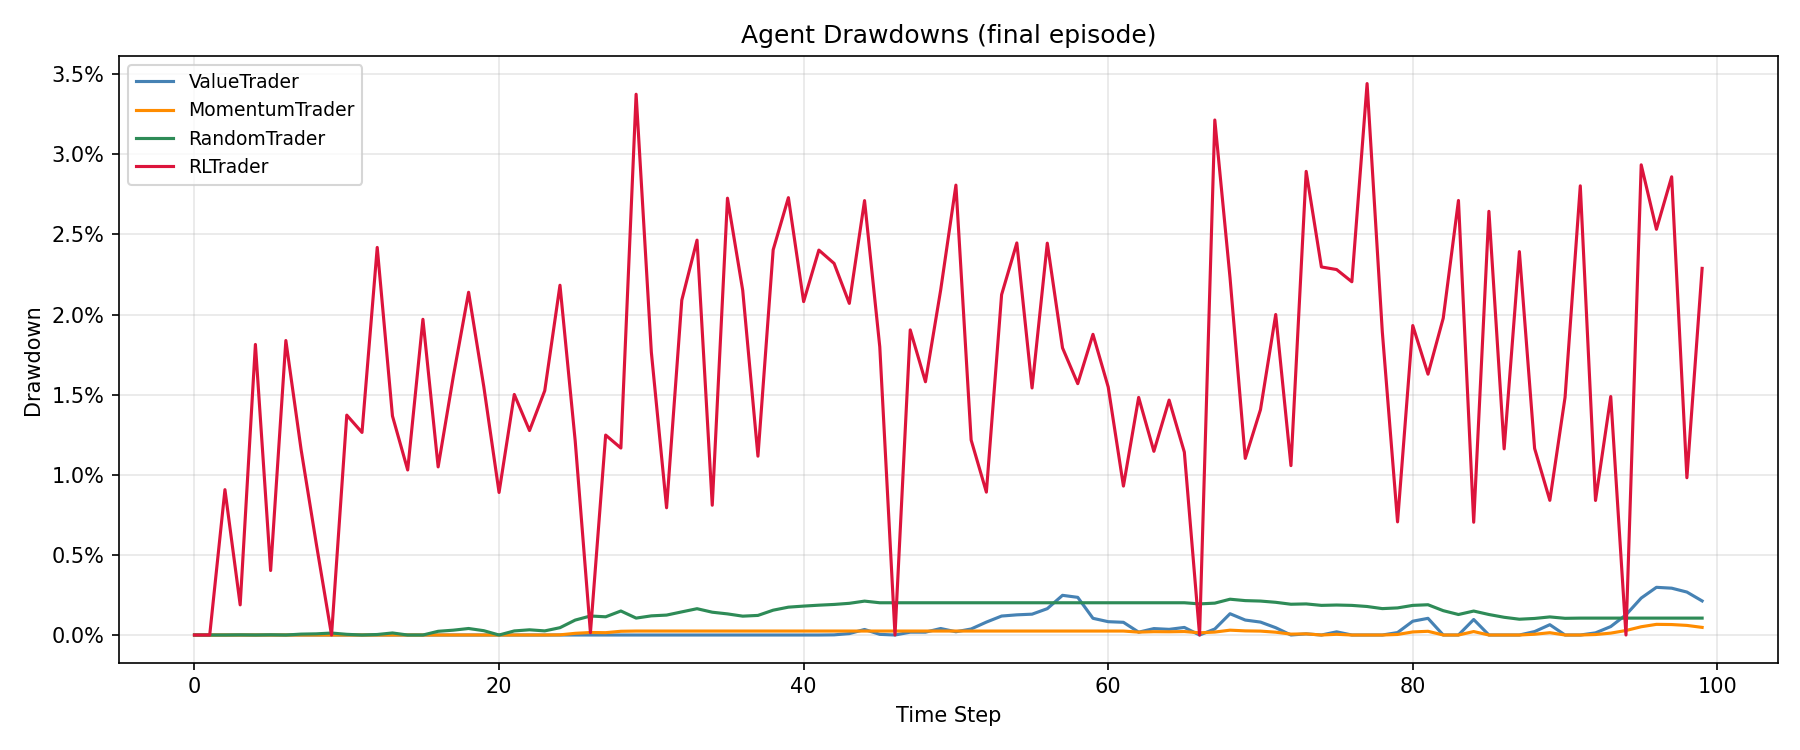
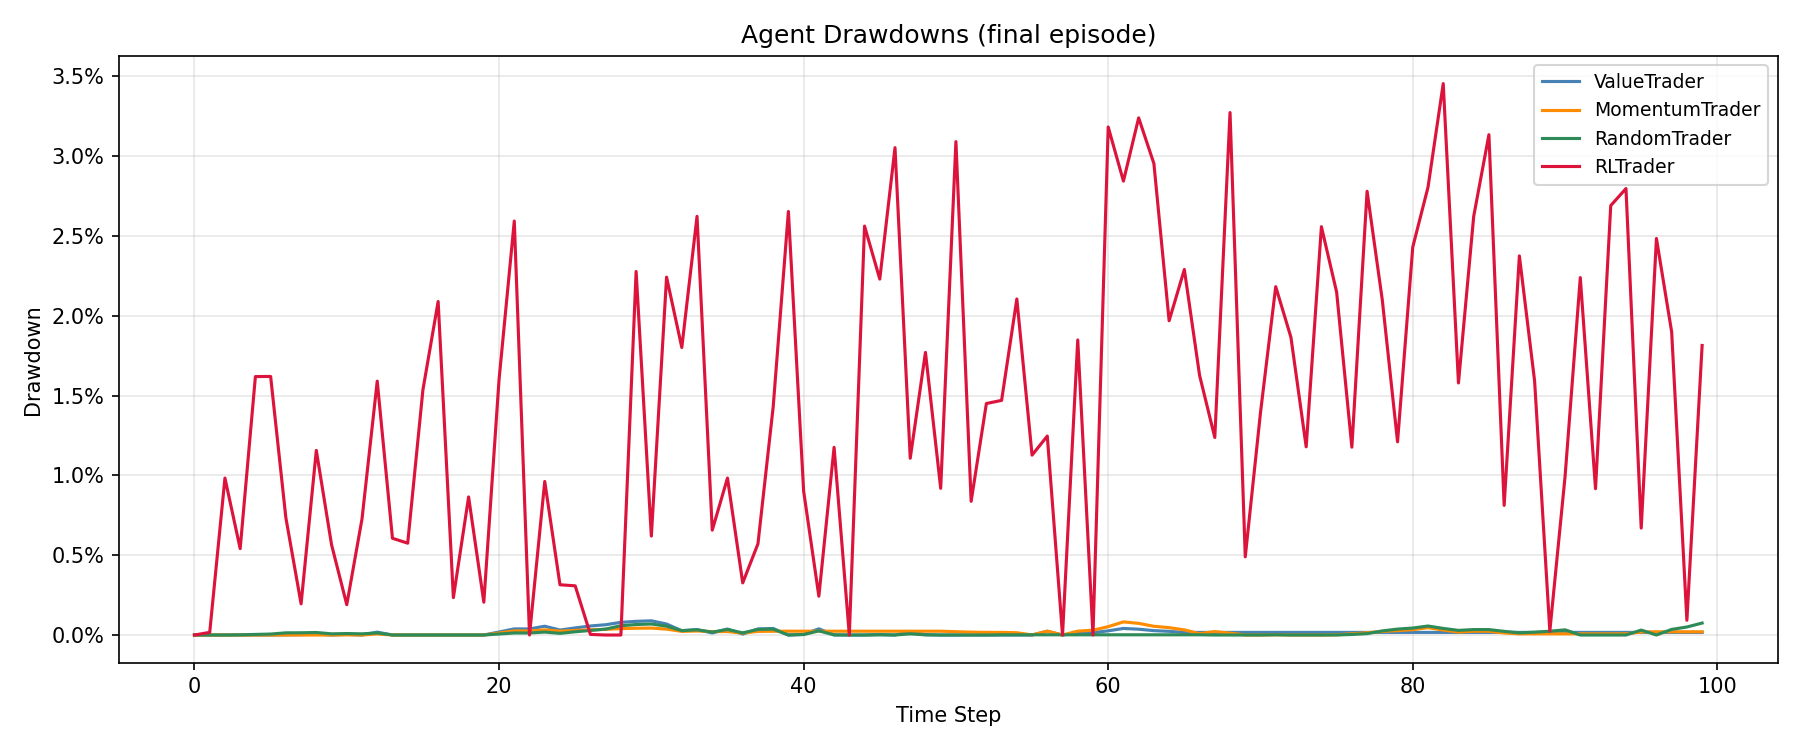
Add a multi-asset rotation engine to identify and reward leading assets
Implement a new multi-asset rotation engine that calculates relative strength scores for individual assets, influencing dynamic caps, reward shaping, and providing transition-based feedback messages.

Replit-Commit-Author: Agent
Replit-Commit-Session-Id: 3826bf3c-e3fd-4317-b321-61e418fea702
Replit-Commit-Checkpoint-Type: full_checkpoint
Replit-Commit-Event-Id: e135a571-7142-46cd-ab74-2d3e7d83e081
Replit-Helium-Checkpoint-Created: true

diff --git a/project/simulation/simulation.py b/project/simulation/simulation.py
@@ -169,6 +169,11 @@ class Simulation:
         self.top_risk      = 0
         self.prev_top_risk = 0
 
+        # --- Multi-asset rotation engine ----------------------------------
+        # rotation_score[asset] ∈ [0, ~4.5] — higher = current leader
+        self.rotation_score      = {}   # asset → score this step
+        self.prev_rotation_score = {}   # asset → score last step (for feedback)
+
         # --- Macro feedback message log -----------------------------------
         # Populated each step when manual flag conflicts with signals,
         # or when AUTO mode detects uncertain / mixed conditions.
@@ -533,6 +538,60 @@ class Simulation:
             state.macro_regime     = self.macro_regime
             state.internal_regime  = self.internal_regime
 
+            # --- Multi-asset rotation engine ------------------------------
+            # Derives relative strength for SOL, XRP, LINK, ETH vs BTC/ETH
+            # anchors using existing price buffers — no new data sources.
+            _rot_assets = ["SOL", "XRP", "LINK", "ETH"]
+            _btc_prices = self.asset_prices["BTC"]
+            _eth_prices = self.asset_prices["ETH"]
+
+            self.rotation_score = {}
+
+            for _ra in _rot_assets:
+                _rap = self.asset_prices[_ra]
+                _rap_n = len(_rap)
+
+                # Short-term momentum (5-step percentage return)
+                _rm5_a   = (_rap[-1] - _rap[-5])   / max(_rap[-5],   1e-6) if _rap_n >= 5  else 0.0
+                _rm5_btc = (_btc_prices[-1] - _btc_prices[-5]) / max(_btc_prices[-5], 1e-6) \
+                           if len(_btc_prices) >= 5 else 0.0
+
+                # Medium-term momentum (20-step percentage return)
+                _rm20_a   = (_rap[-1] - _rap[-20])  / max(_rap[-20],  1e-6) if _rap_n >= 20 else 0.0
+                _rm20_btc = (_btc_prices[-1] - _btc_prices[-20]) / max(_btc_prices[-20], 1e-6) \
+                            if len(_btc_prices) >= 20 else 0.0
+
+                # Strength ratios vs anchor assets
+                _vs_btc = _rap[-1] / max(_btc_prices[-1], 1e-6) if _btc_prices else 0.0
+                _vs_eth = _rap[-1] / max(_eth_prices[-1], 1e-6) if _eth_prices else 0.0
+
+                _rscore = 0.0
+                if _rm5_a > 0:               _rscore += 1.0   # positive 5-step mom
+                if _rm5_a > _rm5_btc:        _rscore += 0.5   # outperforming BTC (5-step)
+                if _rm20_a > 0:              _rscore += 1.0   # positive 20-step mom
+                if _rm20_a > _rm20_btc:      _rscore += 0.5   # outperforming BTC (20-step)
+                if _vs_btc > 1.0:            _rscore += 0.5   # priced above BTC ratio
+                if _vs_eth > 1.0:            _rscore += 0.5   # priced above ETH ratio
+                _rscore += 0.5 * self.altseason_index          # altseason tailwind
+
+                self.rotation_score[_ra] = _rscore
+
+            setattr(state, "rotation_score", self.rotation_score)
+
+            # Rotation feedback: only on meaningful score shifts (>1.0)
+            for _ra in _rot_assets:
+                _rold = self.prev_rotation_score.get(_ra)
+                _rnew = self.rotation_score[_ra]
+                if _rold is not None and abs(_rnew - _rold) > 1.0:
+                    _rmsg = (
+                        f"Rotation shift: {_ra} score changed "
+                        f"{_rold:.2f} → {_rnew:.2f}"
+                    )
+                    self.macro_messages.append(_rmsg)
+                    print(_rmsg)
+
+            self.prev_rotation_score = self.rotation_score.copy()
+
             # --- Blow-off top detection -----------------------------------
             # Scores late-cycle, unsustainable acceleration using existing
             # regime features — no new data sources required.
@@ -613,6 +672,12 @@ class Simulation:
                     _cap *= 0.8   # early warning: moderate reduction
                 elif self.top_risk == 2:
                     _cap *= 0.5   # blow-off: de-risk hard
+
+                # Rotation tilt: leaders get up to +20% cap
+                # BTC is the anchor so has no rotation score entry (returns 0.0)
+                _rot_raw  = self.rotation_score.get(_asset, 0.0)
+                _rot_norm = min(1.0, _rot_raw / 4.0)   # normalise to [0, 1]
+                _cap *= (1.0 + 0.2 * _rot_norm)
 
                 # Clamp to [0.1, 1.5 × base]
                 self.dynamic_caps[_asset] = max(0.1, min(1.5 * _base, _cap))
@@ -820,6 +885,16 @@ class Simulation:
                             reward -= 1.0 * turnover
                             if step_return < 0:
                                 reward -= 2.0 * abs(step_return)
+
+                        # --- Rotation leader bonus ------------------------
+                        # Small positive signal toward overweighting leaders;
+                        # averaged across all scored alts so it's portfolio-level.
+                        if self.rotation_score:
+                            _rot_bonus = 0.01 * (
+                                sum(self.rotation_score.values())
+                                / len(self.rotation_score)
+                            )
+                            reward += _rot_bonus
 
                         # --- Critic: N-step replay buffer update ----------
                         done = (current_step == SIMULATION_STEPS - 1)
